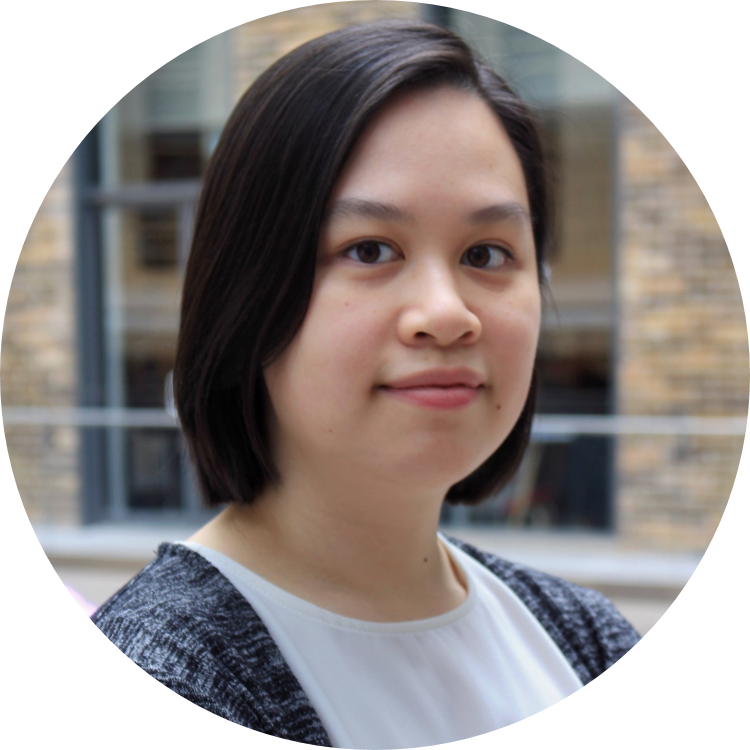
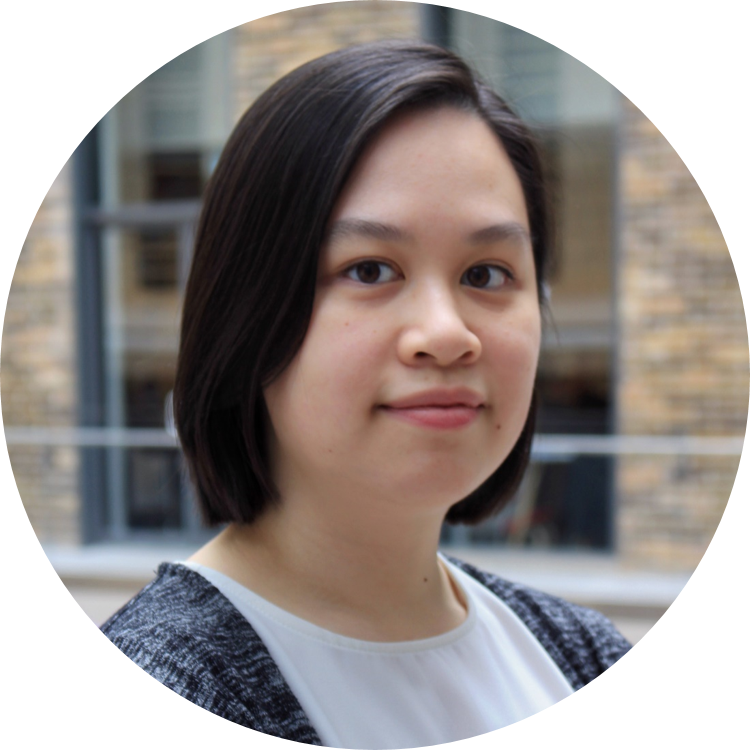
last profile update! just a lil border shift

diff --git a/_sass/minimal-mistakes/_sidebar.scss b/_sass/minimal-mistakes/_sidebar.scss
@@ -109,8 +109,8 @@
     border-radius: 50%;
 
     @include breakpoint($large) {
-      padding: 5px;
-      border: 1px solid $border-color;
+      padding: 1px;
+      border: 2px solid $border-color;
     }
   }
 }
